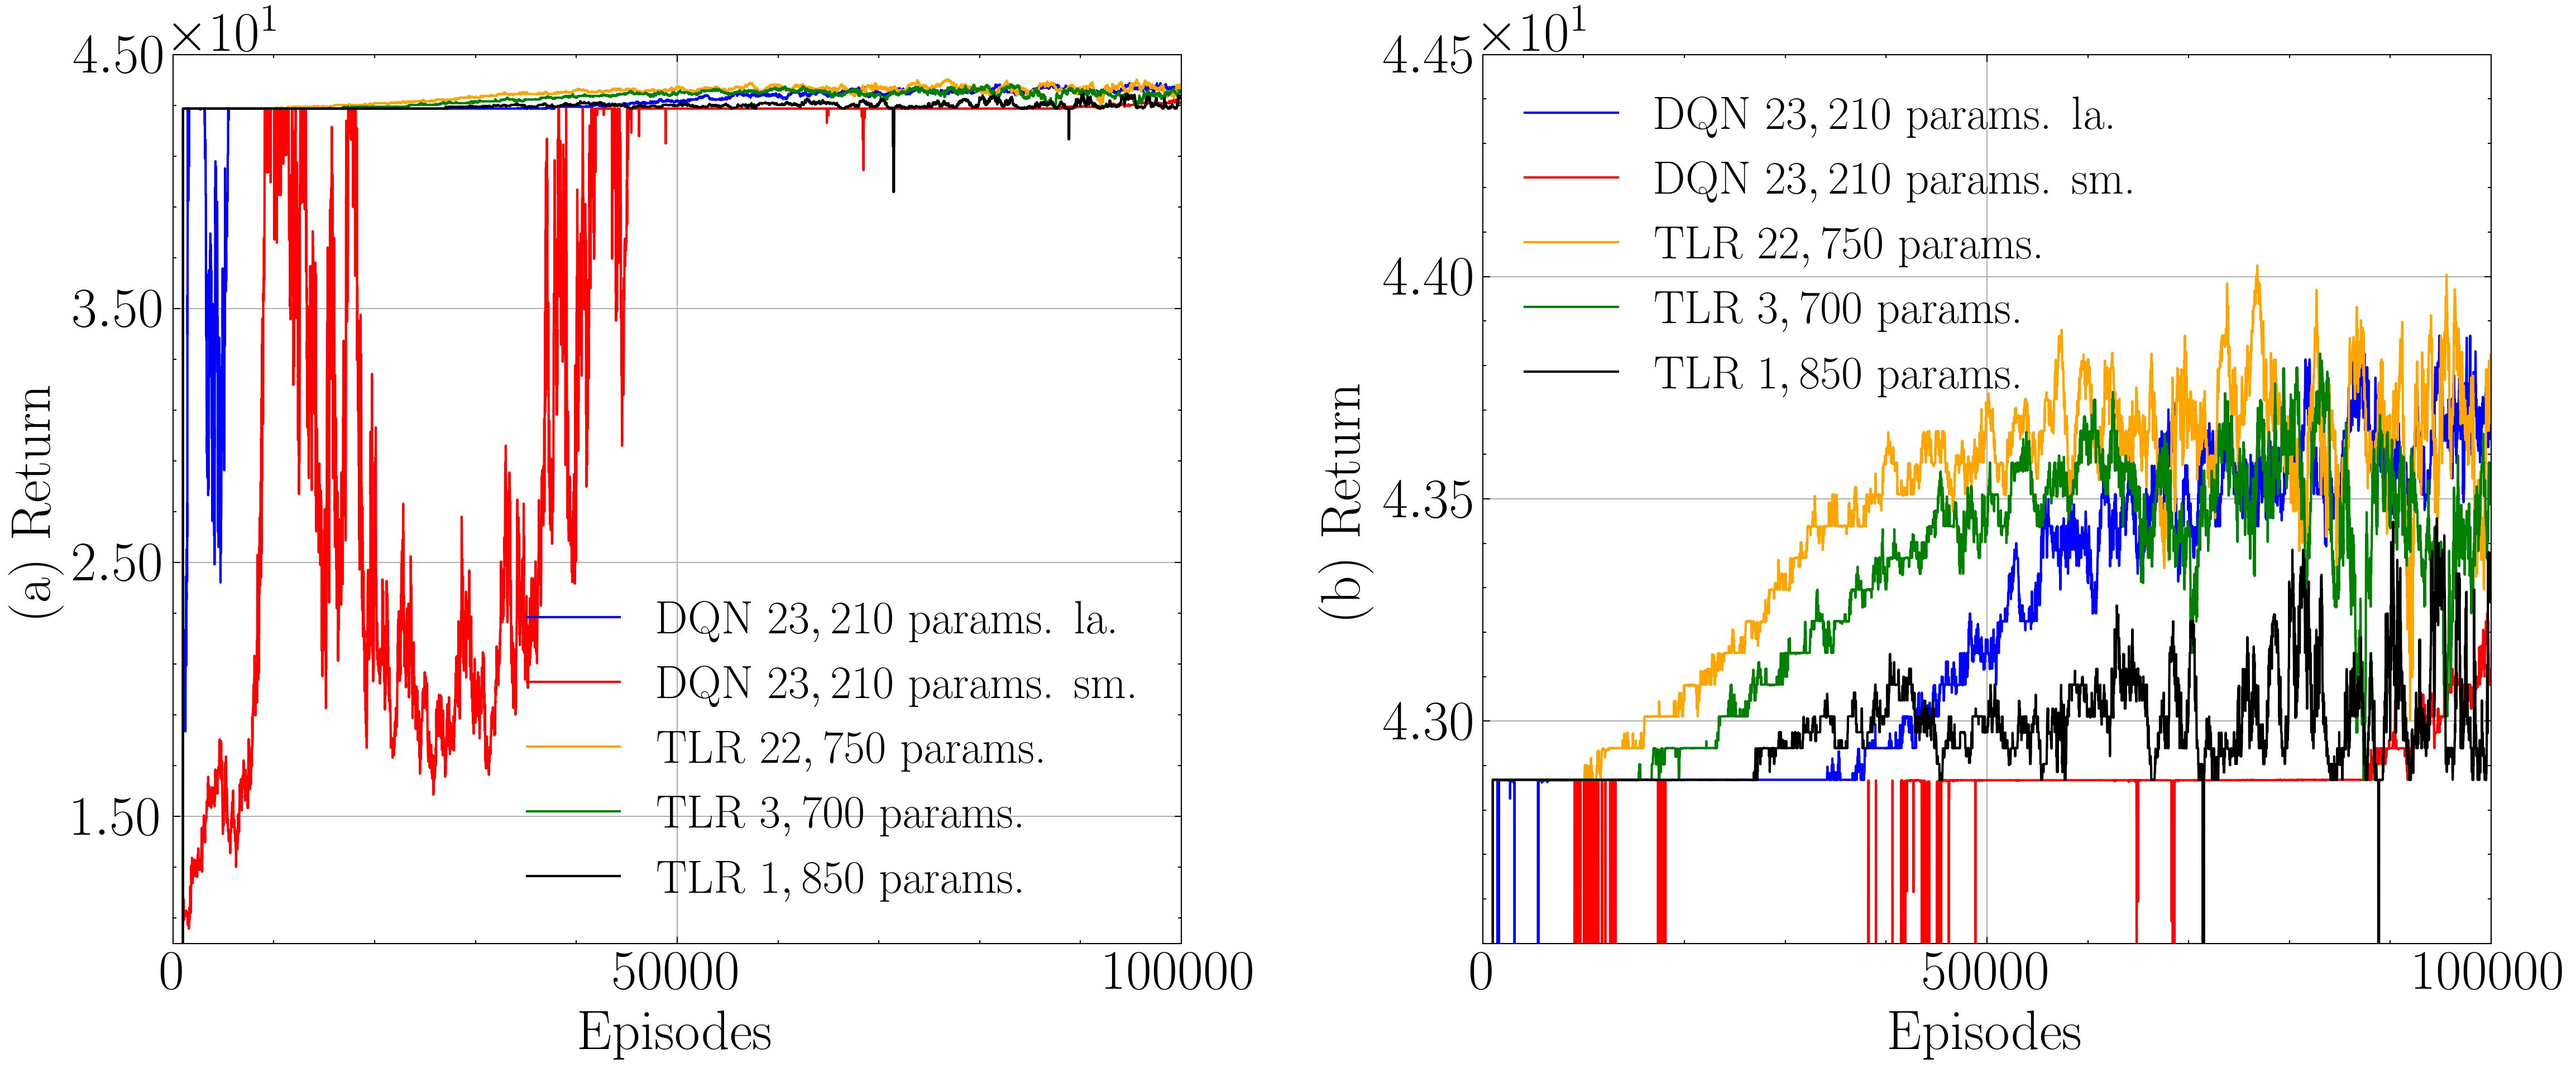
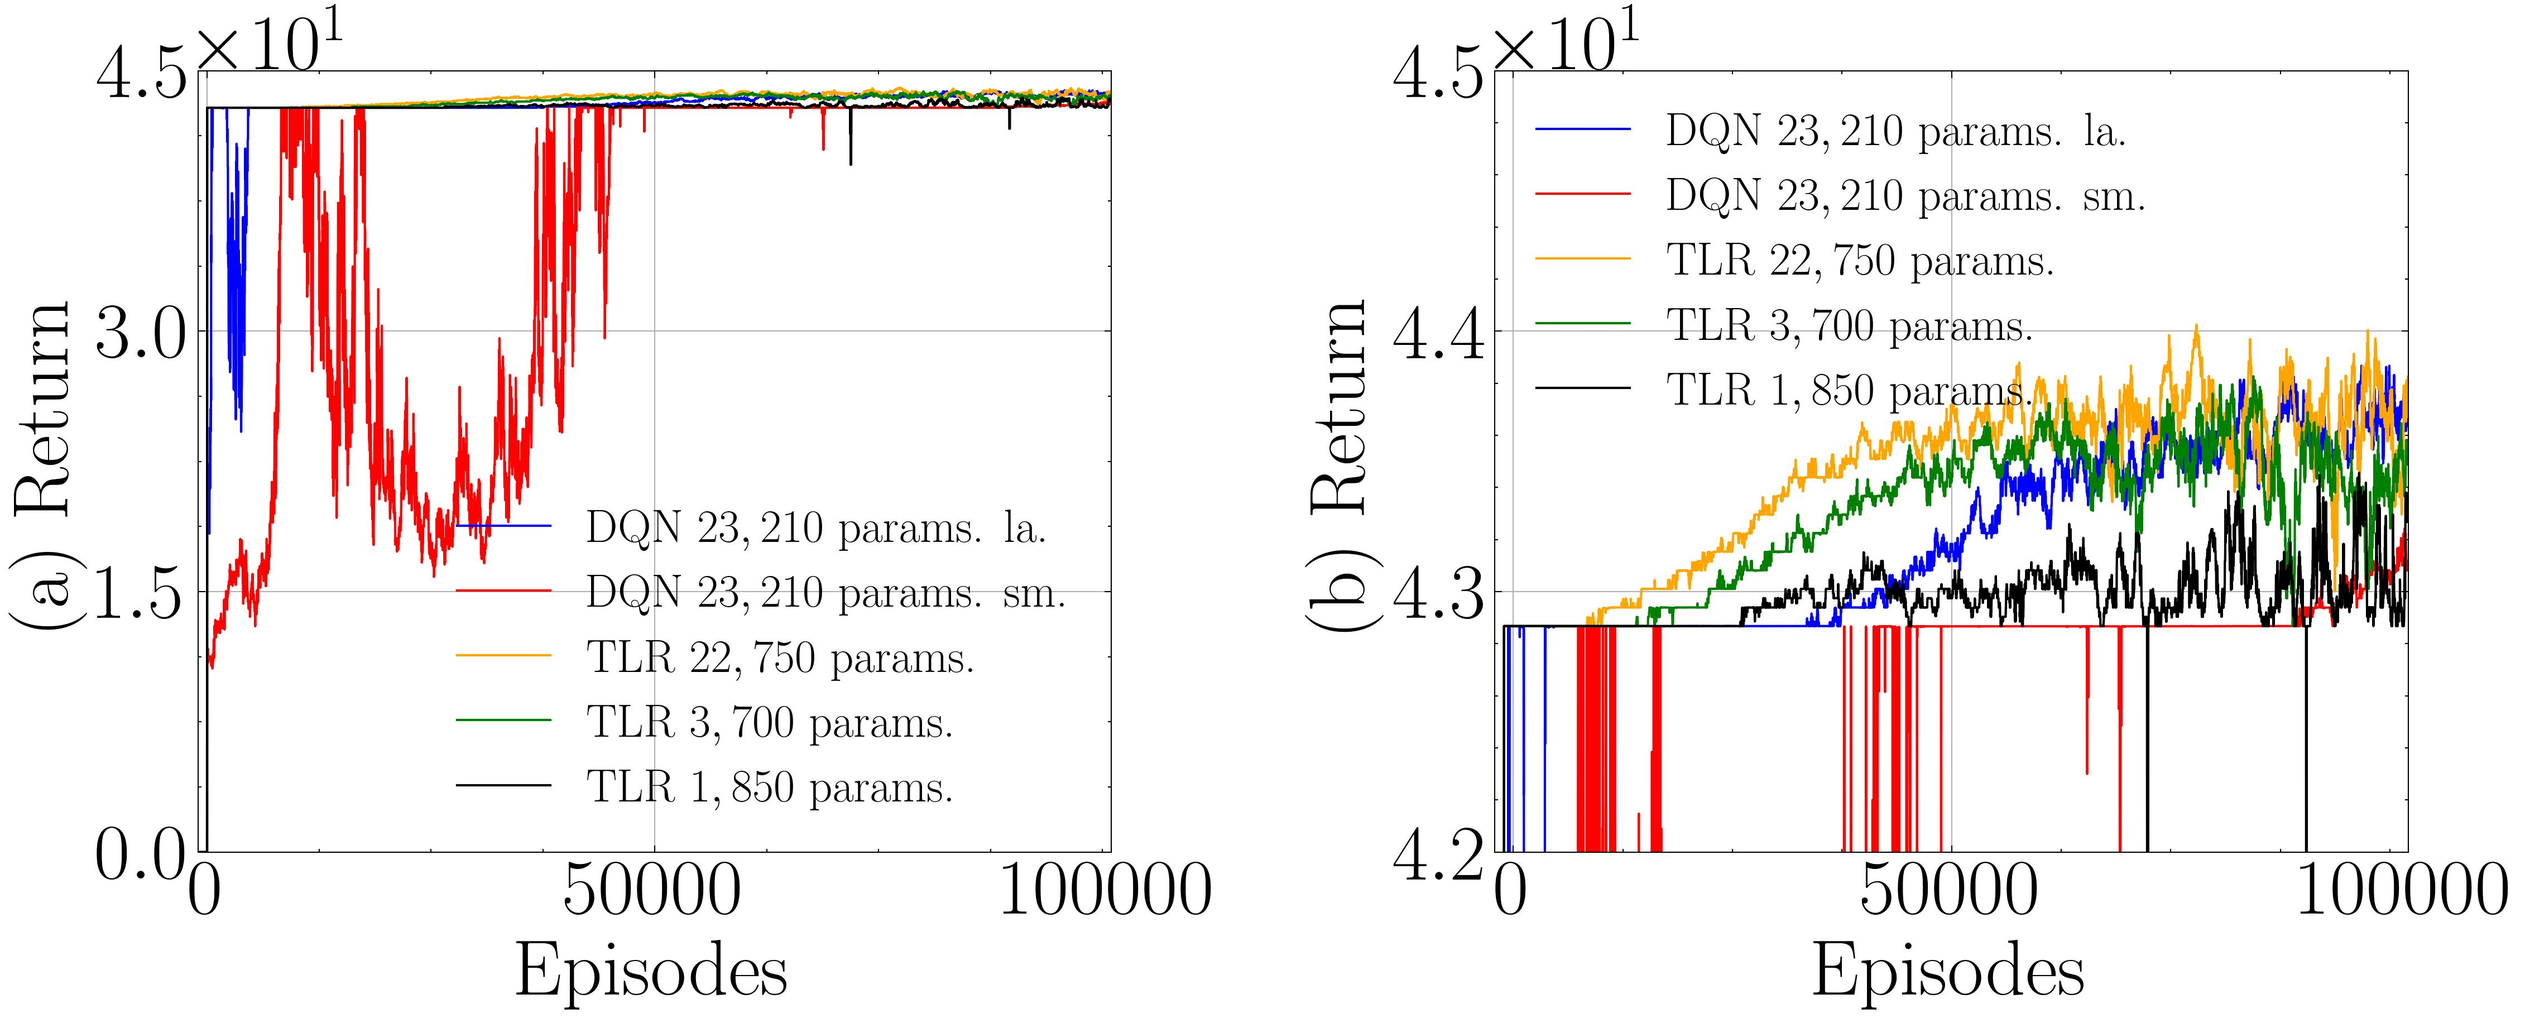
feature: final size of ticks adjusted

diff --git a/7_exp_high_dimensional_space.py b/7_exp_high_dimensional_space.py
@@ -52,7 +52,7 @@ if __name__ == "__main__":
     ]
 
     with plt.style.context(['science'], ['ieee']):
-        matplotlib.rcParams.update({'font.size': 24})
+        matplotlib.rcParams.update({'font.size': 34})
 
         fig, axes = plt.subplots(nrows=1, ncols=2, figsize=(16, 7))
         axes = axes.flatten()
@@ -66,10 +66,10 @@ if __name__ == "__main__":
         axes[0].set_xlabel("Episodes", labelpad=4)
         axes[0].set_ylabel("(a) Return")
         axes[0].set_xlim(0, 100_000)
-        axes[0].set_ylim(10, 45)
-        axes[0].set_yticks([15, 25, 35, 45])
-        axes[0].set_xticks([0, 50000, 100000])
-        axes[0].yaxis.set_major_formatter(OOMFormatter(1, "%1.2f"))
+        axes[0].set_ylim(0, 45)
+        axes[0].set_yticks([0, 15, 30, 45])
+        axes[0].set_xticks([1000, 50000, 100000], [0, 50000, 100000])
+        axes[0].yaxis.set_major_formatter(OOMFormatter(1, "%1.1f"))
         axes[0].ticklabel_format(style = 'sci', axis='y', scilimits=(0,0))
         axes[0].legend(labels, fontsize=20, loc='lower right')
         axes[0].grid()
@@ -82,10 +82,10 @@ if __name__ == "__main__":
         axes[1].set_xlabel("Episodes", labelpad=4)
         axes[1].set_ylabel("(b) Return")
         axes[1].set_xlim(0, 100_000)
-        axes[1].set_ylim(42.5, 44.5)
-        axes[1].set_yticks([43.0, 43.5, 44.0, 44.5])
-        axes[1].set_xticks([0, 50000, 100000])
-        axes[1].yaxis.set_major_formatter(OOMFormatter(1, "%1.2f"))
+        axes[1].set_ylim(42, 45)
+        axes[1].set_yticks([42, 43, 44, 45])
+        axes[1].set_xticks([2000, 50000, 100000], [0, 50000, 100000])
+        axes[1].yaxis.set_major_formatter(OOMFormatter(1, "%1.1f"))
         axes[1].ticklabel_format(style = 'sci', axis='y', scilimits=(0,0))
         axes[1].legend(labels, fontsize=20, loc='upper left')
         axes[1].grid()
